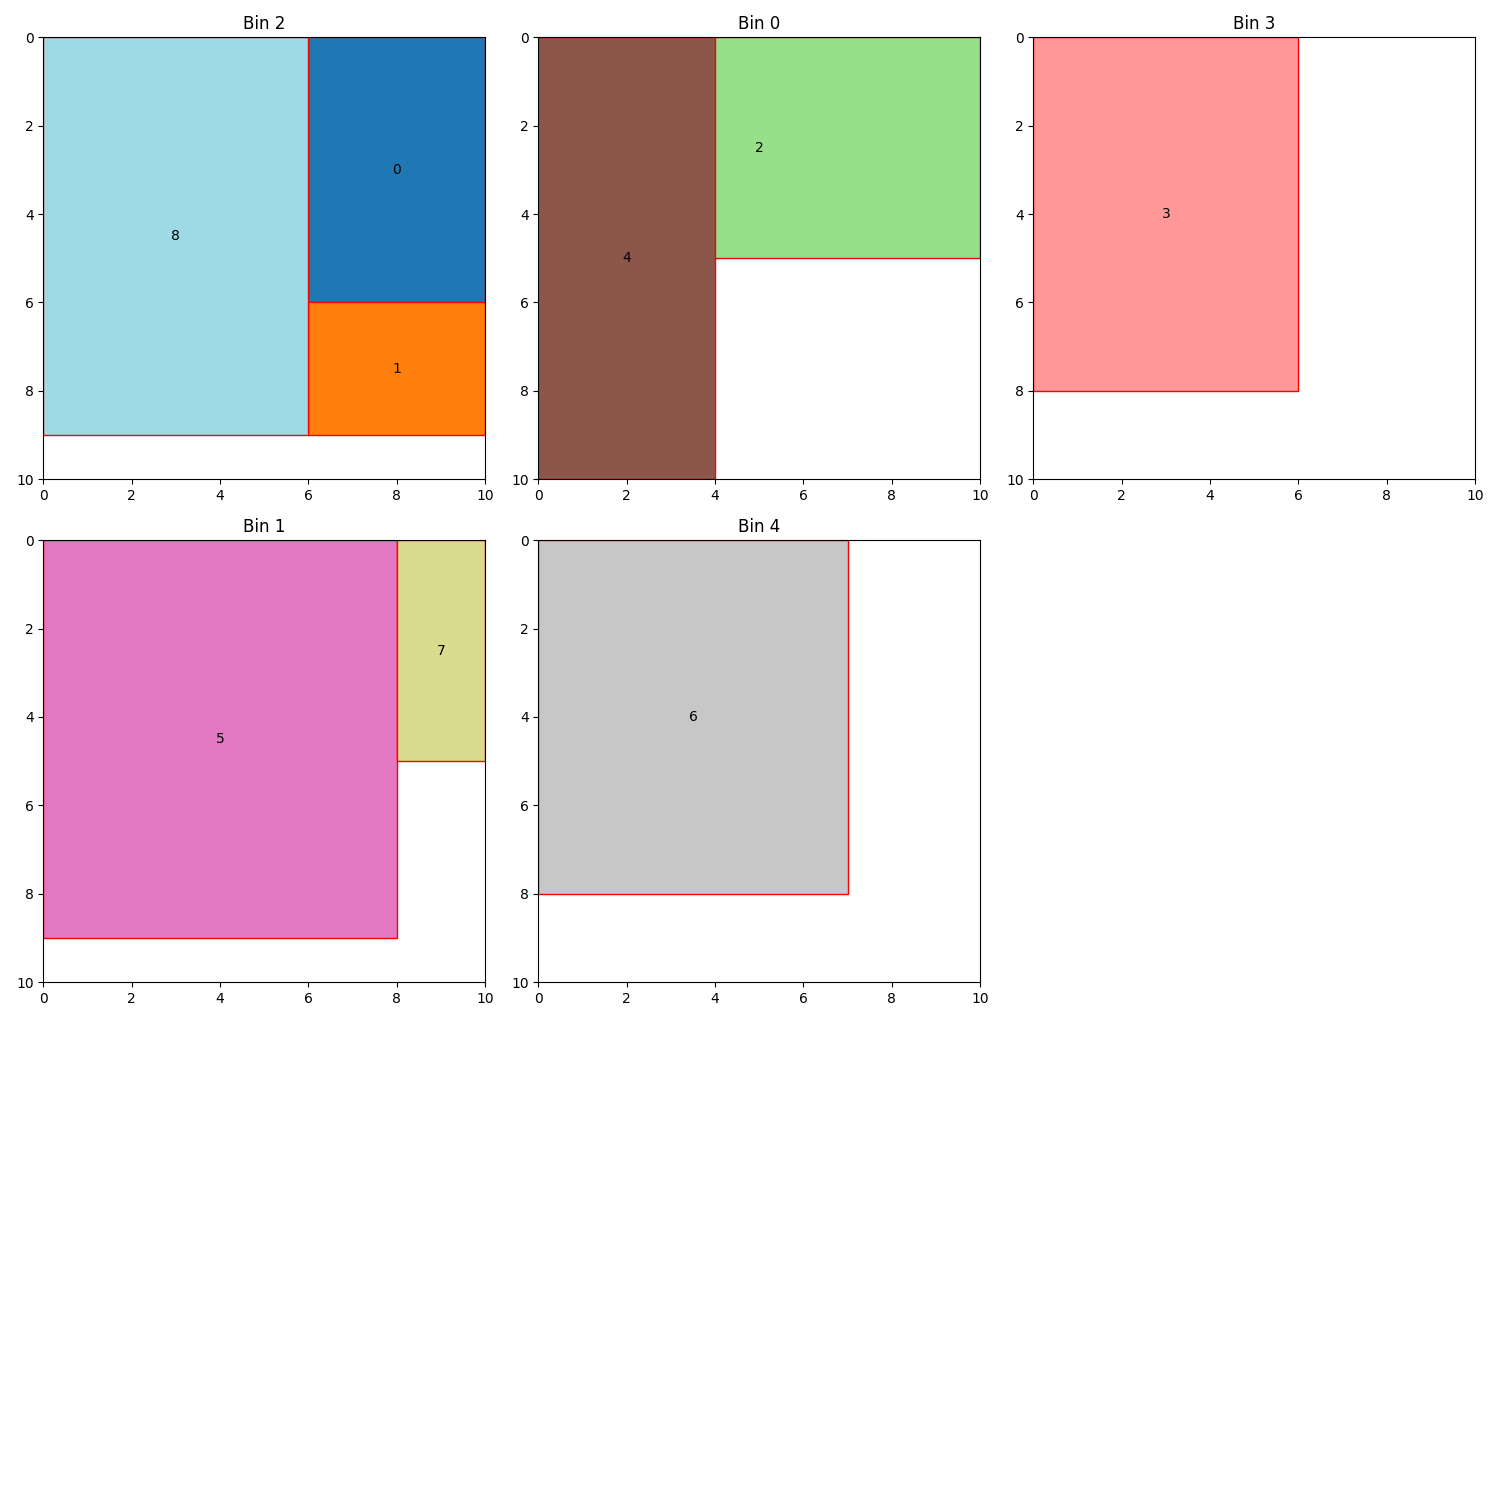
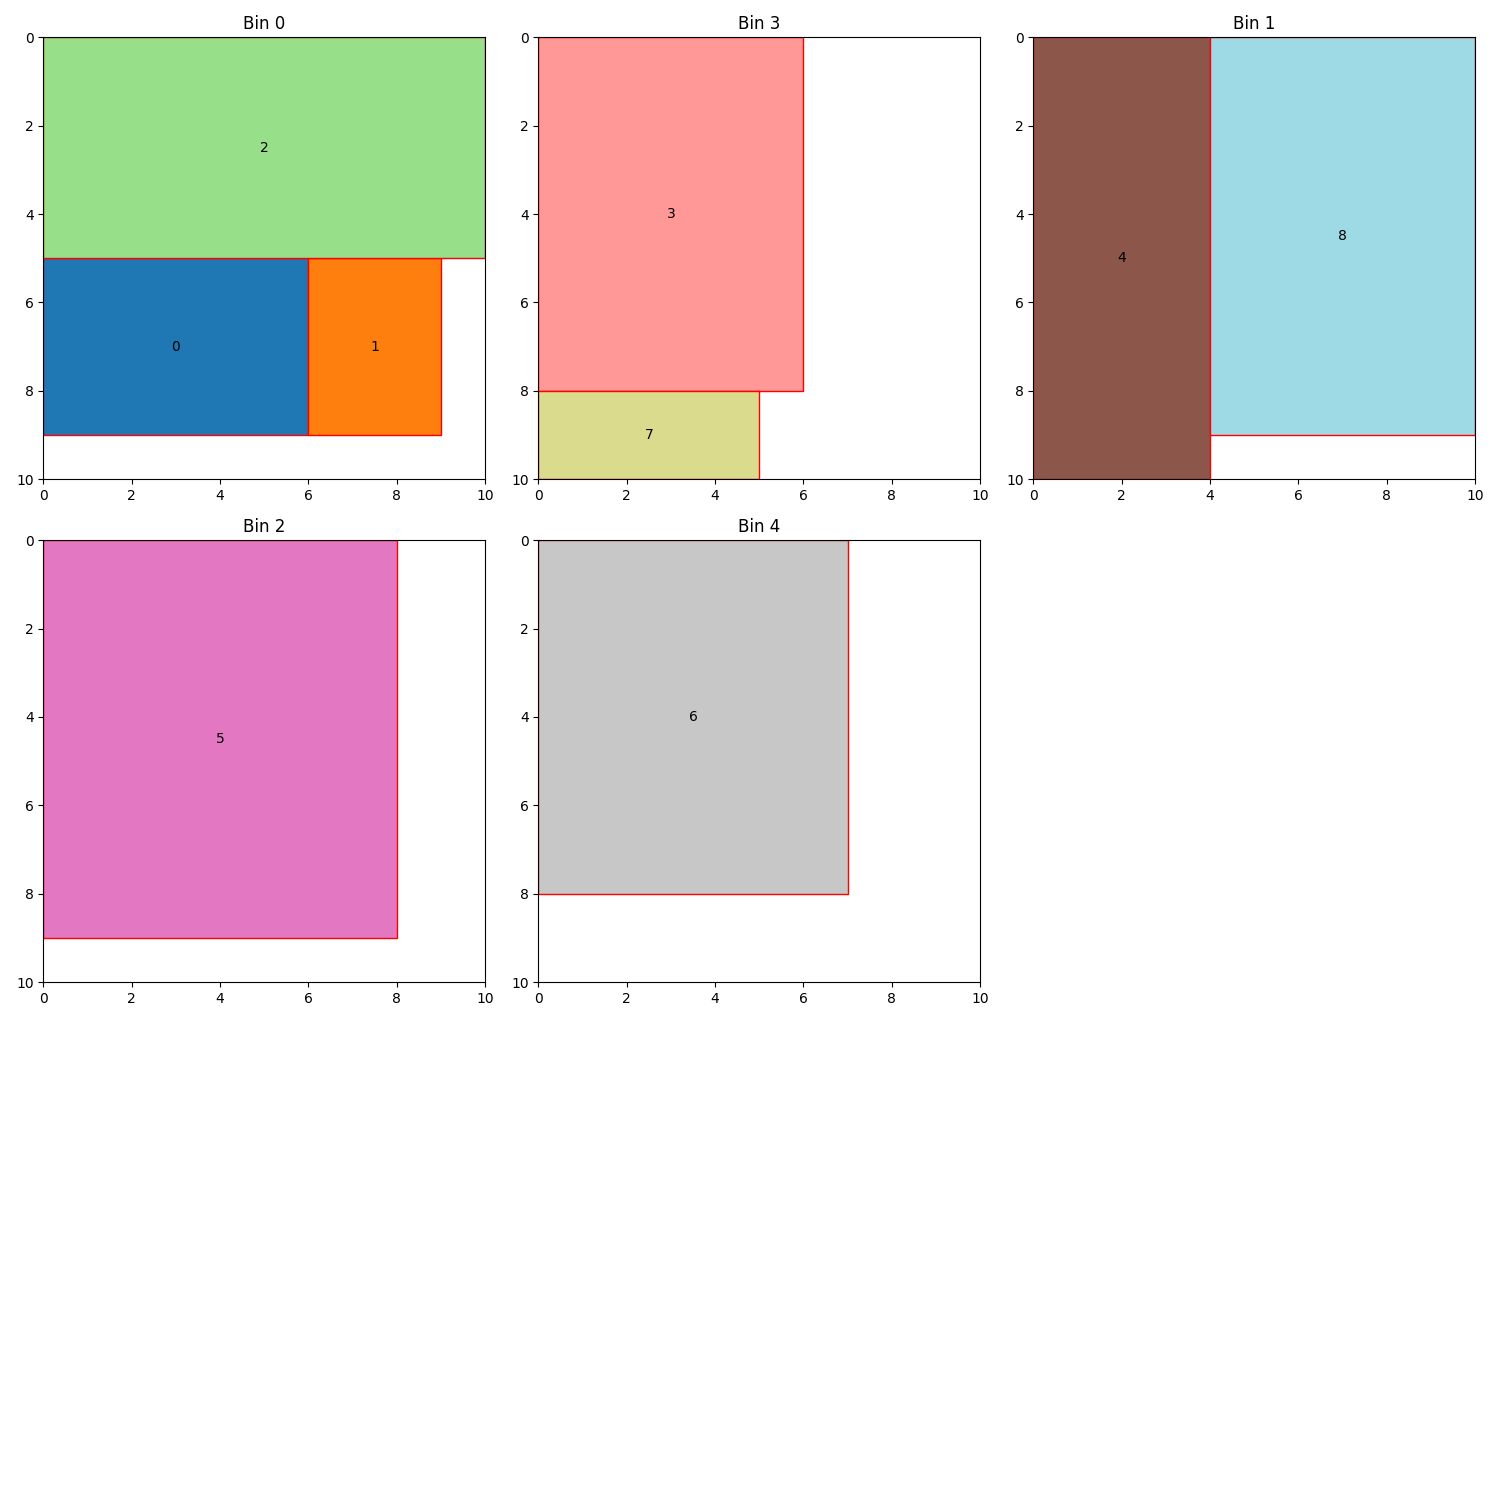
Refactor + Fix: only one particle with BFD

Changed region(s): [[0.0307, 0.0, 1.0, 0.3373], [0.2453, 0.3373, 0.3373, 0.5213]]

diff --git a/utils/pso.py b/utils/pso.py
@@ -45,23 +45,31 @@ def fitness_function(position, bin_width, bin_height, box_dims):
             h, w = box_dims[i]
         bins[bin_num].append((x, y, w, h))
 
-    num_bins_used = len(bins)
-    penalty = 0
+    overlap_penalty = 0
+    free_space = 0
 
     for bin_num, boxes in bins.items():
+        bin_free_space = bin_width * bin_height
         for i, (x1, y1, w1, h1) in enumerate(boxes):
+            bin_free_space -= w1 * h1
+            # Check if the box exceeds bin boundaries
             if x1 + w1 > bin_width or y1 + h1 > bin_height:
-                penalty += 1
+                overlap_penalty += 1
             for j, (x2, y2, w2, h2) in enumerate(boxes):
                 if i != j:
                     if not (
-                        x1 + w1 <= x2 or x2 + w2 <= x1 or y1 + h1 <= y2 or y2 + h2 <= y1
+                        x1 + w1 <= x2 or x1 >= x2 + w2 or y1 + h1 <= y2 or y1 >= y2 + h2
                     ):
-                        penalty += 1
+                        overlap_penalty += 1
+        free_space += bin_free_space
 
-    penalty_multiplier = 1000  # High penalty to prioritize feasible solutions
+    # Assign a very large penalty if there's any overlap
+    if overlap_penalty > 0:
+        fitness = 1e15
+    else:
+        fitness = len(bins) + free_space**2
 
-    return num_bins_used + penalty * penalty_multiplier
+    return fitness
 
 
 def update_velocity(particle, global_best_position, w, c1, c2):
@@ -86,64 +94,46 @@ def update_position(particle):
         particle.position[i][2] = max(0, min(particle.bin_height - box_height, y))
 
 
-def best_fit_decreasing(num_boxes, box_dims, bin_width, bin_height):
+def best_fit_decreasing(box_dims, bin_width, bin_height):
     boxes = sorted(enumerate(box_dims), key=lambda x: max(x[1]), reverse=True)
     bins = []
     position = []
 
     for idx, (box_width, box_height) in boxes:
-        best_bin = None
-        min_space_left = float("inf")
+        placed = False
         for bin_num, bin in enumerate(bins):
-            if can_place_in_bin(bin, box_width, box_height, bin_width, bin_height):
-                space_left = calculate_space_left(bin, bin_width, bin_height)
-                if space_left < min_space_left:
-                    min_space_left = space_left
-                    best_bin = bin_num
-            if can_place_in_bin(bin, box_height, box_width, bin_width, bin_height):
-                space_left = calculate_space_left(bin, bin_width, bin_height)
-                if space_left < min_space_left:
-                    min_space_left = space_left
-                    best_bin = bin_num
-        if best_bin is None:
+            for x in range(bin_width - box_width + 1):
+                for y in range(bin_height - box_height + 1):
+                    if can_place_in_bin(
+                        bin, x, y, box_width, box_height, bin_width, bin_height
+                    ):
+                        bins[bin_num].append((x, y, box_width, box_height))
+                        position.append((bin_num, x, y, 0))
+                        placed = True
+                        break
+                if placed:
+                    break
+            if placed:
+                break
+        if not placed:
             bins.append([(0, 0, box_width, box_height)])
             position.append((len(bins) - 1, 0, 0, 0))
-        else:
-            if space_left == calculate_space_left(
-                bins[best_bin], bin_width, bin_height
-            ):
-                place_box_in_bin(
-                    bins[best_bin], box_width, box_height, bin_width, bin_height
-                )
-                position.append(
-                    (best_bin, bins[best_bin][-1][0], bins[best_bin][-1][1], 0)
-                )
-            else:
-                place_box_in_bin(
-                    bins[best_bin], box_height, box_width, bin_width, bin_height
-                )
-                position.append(
-                    (best_bin, bins[best_bin][-1][0], bins[best_bin][-1][1], 1)
-                )
 
-    initial_positions = [None] * num_boxes
+    initial_position = [None] * len(box_dims)
     for i, pos in enumerate(position):
-        initial_positions[boxes[i][0]] = pos
-    return initial_positions
+        initial_position[boxes[i][0]] = pos
+    return initial_position
 
 
-def can_place_in_bin(bin, w, h, bin_width, bin_height):
-    for x in range(bin_width - w + 1):
-        for y in range(bin_height - h + 1):
-            if all(
-                x + w <= bin_x
-                or x >= bin_x + bin_w
-                or y + h <= bin_y
-                or y >= bin_y + bin_h
-                for bin_x, bin_y, bin_w, bin_h in bin
-            ):
-                return True
-    return False
+def can_place_in_bin(bin, x, y, box_width, box_height, bin_width, bin_height):
+    if x + box_width > bin_width or y + box_height > bin_height:
+        return False
+    for bx, by, bw, bh in bin:
+        if not (
+            x + box_width <= bx or x >= bx + bw or y + box_height <= by or y >= by + bh
+        ):
+            return False
+    return True
 
 
 def calculate_space_left(bin, bin_width, bin_height):
@@ -151,21 +141,6 @@ def calculate_space_left(bin, bin_width, bin_height):
     for x, y, bin_w, bin_h in bin:
         space_left -= bin_w * bin_h
     return space_left
-
-
-def place_box_in_bin(bin, w, h, bin_width, bin_height):
-    for x in range(bin_width - w + 1):
-        for y in range(bin_height - h + 1):
-            if all(
-                x + w <= bin_x
-                or x >= bin_x + bin_w
-                or y + h <= bin_y
-                or y >= bin_y + bin_h
-                for bin_x, bin_y, bin_w, bin_h in bin
-            ):
-                bin.append((x, y, w, h))
-                return True
-    return False
 
 
 def pso_2d_bin_packing(
@@ -177,16 +152,22 @@ def pso_2d_bin_packing(
     max_iter,
     w=0.5,
     c1=1.5,
-    c2=1.5,
+    c2=3,
     time_limit=None,
     verbose=True,
 ):
     if time_limit is not None:
         tic = perf_counter()
-    initial_position = best_fit_decreasing(num_boxes, box_dims, bin_width, bin_height)
+    bfd_initial_position = best_fit_decreasing(box_dims, bin_width, bin_height)
     swarm = [
-        Particle(num_boxes, bin_width, bin_height, box_dims, initial_position)
-        for _ in range(num_particles)
+        Particle(
+            num_boxes,
+            bin_width,
+            bin_height,
+            box_dims,
+            initial_position=bfd_initial_position if i == 0 else None,
+        )
+        for i in range(num_particles)
     ]
     global_best_position = None
     global_best_fitness = float("inf")
@@ -197,11 +178,6 @@ def pso_2d_bin_packing(
             if toc - tic >= time_limit:
                 print(f"Time limit exhausted. Runtime: {toc - tic}")
                 break
-            else:
-                tic = perf_counter()
-        if global_best_fitness < 1000:
-            print(f"Converged in {i} iterations.")
-            break
         for particle in swarm:
             fitness = fitness_function(
                 particle.position, bin_width, bin_height, particle.box_dims

diff --git a/main.py b/main.py
@@ -5,9 +5,12 @@ from utils import (
     pso_2d_bin_packing,
 )
 
+from pprint import pformat
+
 if __name__ == "__main__":
     parser = get_arg_parser()
     args = parser.parse_args()
+    print(f"Initializing with the following args:\n{pformat(vars(args))}")
     num_boxes, box_dims, bin_width, bin_height = parse_test_case_from_file(
         path=args.test_case
     )

diff --git a/utils/io.py b/utils/io.py
@@ -48,8 +48,8 @@ def get_arg_parser():
     parser.add_argument(
         "-c2",
         type=float,
-        default=1.5,
-        help="Social coefficient. Defaults to `1.5`.",
+        default=2.5,
+        help="Social coefficient. Defaults to `2.5`.",
     )
     parser.add_argument(
         "--time_limit",
